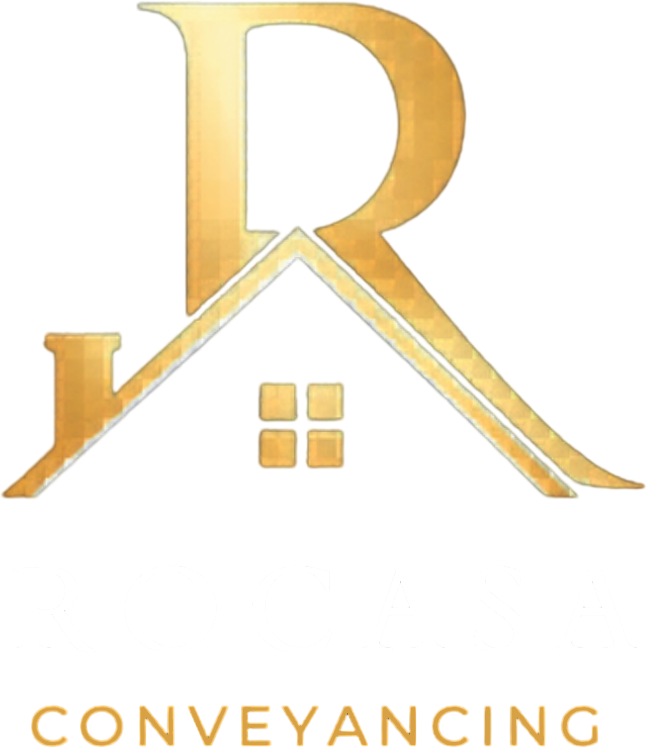
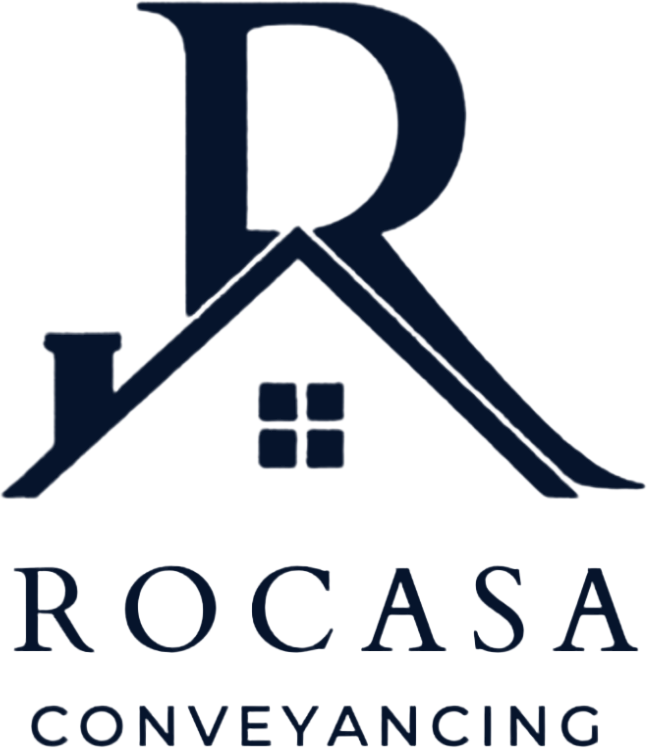
feat: update feedbacks

diff --git a/src/components/organisms/FAQs.tsx b/src/components/organisms/FAQs.tsx
@@ -6,9 +6,9 @@ import { FAQItem } from '../molecules/FAQItem';
 
 const FAQS = [
   {
-    question: 'How much does conveyancing cost in NSW?',
+    question: 'What is conveyancing?',
     answer:
-      'Rocasa charges a clear, fixed fee — quoted in writing before any work begins. Government disbursements (title searches, council certificates, transfer duty) are passed through at cost with no markup, so you always know exactly where your money is going.',
+      'Conveyancing is the legal process of transferring property ownership from one person to another. It covers contract review, title searches, council and strata enquiries, exchange, and settlement — making sure your interests are protected and the property is legally yours at the end of the transaction.',
   },
   {
     question: 'How long does a typical property settlement take?',
@@ -26,6 +26,16 @@ const FAQS = [
       'Yes — always. Once you sign, you are bound by every clause inside. A pre-signature review identifies risky special conditions, hidden costs, easements and zoning issues so you can negotiate changes before committing.',
   },
   {
+    question: 'What do I need to know about buying at auction?',
+    answer:
+      'Auction purchases are unconditional — there is no cooling-off period, no finance clause and no building-and-pest clause once the hammer falls. Before you bid, your contract must be reviewed, finance pre-approved, deposit ready, and any inspections completed. We prepare you fully so you can bid with confidence and know exactly what you are committing to.',
+  },
+  {
+    question: 'What is "stamp duty" and do I need to pay it?',
+    answer:
+      'Stamp duty (now called transfer duty in NSW) is a state government tax payable on most property purchases, calculated on the purchase price or property value. It is usually due within 3 months of exchange. First home buyers, off-the-plan purchasers and some other categories may qualify for exemptions or concessions — we calculate your exact liability and check every concession you may be entitled to.',
+  },
+  {
     question: "What is the difference between a conveyancer and a solicitor?",
     answer:
       'A licensed conveyancer is a specialist in property transfers — fully regulated under the NSW Conveyancers Licensing Act and required to hold professional indemnity insurance. For most residential and commercial property matters, a conveyancer offers the same protection as a solicitor, typically at a lower fixed fee.',
@@ -39,11 +49,6 @@ const FAQS = [
     question: 'Can you witness statutory declarations and affidavits?',
     answer:
       'Yes. Khem is a Justice of the Peace (NSW) and can witness statutory declarations, affidavits and certify true copies of documents — by appointment at the Pitt St office, or on-site for clients who need it.',
-  },
-  {
-    question: 'Do you handle properties outside Sydney?',
-    answer:
-      'Yes. We act on conveyancing matters across all of New South Wales. The vast majority of work — searches, contracts, PEXA settlement — is done digitally, so location rarely affects the service or the price.',
   },
 ];
 

diff --git a/src/components/organisms/Header.tsx b/src/components/organisms/Header.tsx
@@ -45,7 +45,7 @@ export function Header() {
 
   return (
     <>
-      <div className="hidden lg:block bg-[#08162D] text-white text-xs">
+      <div className="hidden lg:block bg-navy-950 text-white text-xs border-b border-[#D0A455]/25">
         <Container size="xl">
           <div className="flex h-9 items-center justify-between">
             <div className="flex items-center gap-6 text-white/75">
@@ -73,8 +73,8 @@ export function Header() {
       <header
         className={`sticky top-0 z-40 w-full transition-all duration-300 ${
           scrolled
-            ? 'bg-white/95 backdrop-blur-md shadow-[0_4px_20px_-12px_rgba(8,22,45,0.18)]'
-            : 'bg-white'
+            ? 'bg-[#08162D]/95 backdrop-blur-md shadow-[0_4px_20px_-12px_rgba(0,0,0,0.4)]'
+            : 'bg-[#08162D]'
         }`}
       >
         <Container size="xl">
@@ -83,14 +83,20 @@ export function Header() {
 
             <nav aria-label="Primary" className="hidden lg:flex items-center gap-8">
               {NAV.map((item) => (
-                <NavLink key={item.href} href={item.href}>
+                <NavLink key={item.href} href={item.href} invert>
                   {item.label}
                 </NavLink>
               ))}
             </nav>
 
             <div className="hidden lg:flex items-center gap-3">
-              <Button href={business.phoneHref} variant="ghost" size="sm" iconLeft={<Icon name="phone" size={14} />}>
+              <Button
+                href={business.phoneHref}
+                variant="ghost"
+                size="sm"
+                iconLeft={<Icon name="phone" size={14} />}
+                className="text-white! hover:bg-white/10! hover:text-[#D0A455]!"
+              >
                 Call now
               </Button>
               <Button href="#contact" variant="primary" size="sm" iconRight={<Icon name="arrow-right" size={14} />}>
@@ -104,7 +110,7 @@ export function Header() {
               aria-expanded={open}
               aria-controls="mobile-sidebar"
               onClick={() => setOpen(true)}
-              className="lg:hidden grid h-11 w-11 place-items-center rounded-lg border border-[#08162D]/15 text-[#08162D] cursor-pointer transition-colors duration-200 hover:bg-[#FAF0BC]"
+              className="lg:hidden grid h-11 w-11 place-items-center rounded-lg border border-white/20 text-white cursor-pointer transition-colors duration-200 hover:bg-white/10"
             >
               <Icon name="menu" size={22} />
             </button>

diff --git a/src/components/atoms/Logo.tsx b/src/components/atoms/Logo.tsx
@@ -8,8 +8,8 @@ type LogoProps = {
 export function Logo({ variant = 'dark', className = '' }: LogoProps) {
   const src =
     variant === 'dark'
-      ? '/_Transparent%20mono%20logo.png'
-      : '/_Transparent%20logo.png';
+      ? '/main-logo.png'
+      : '/main-logo.png';
 
   return (
     <a